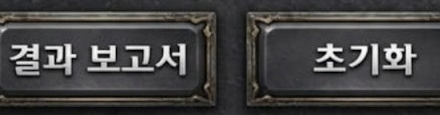
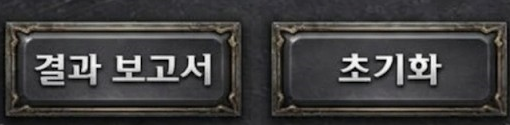
마법인형 합성 버튼이 좌우로 잘리지 않게 테두리를 살립니다.

diff --git a/guide/dolls.html b/guide/dolls.html
@@ -143,15 +143,15 @@
     }
     .adena img { height:3.8cqi; width:auto; flex:0 0 auto; image-rendering:pixelated; }
     .adena canvas { height:3.1cqi; width:auto; flex:0 0 auto; image-rendering:pixelated; }
-    .btn-pair { position:absolute; left:5.2%; top:42.6%; width:39%; z-index:3; }
+    .btn-pair { position:absolute; left:6.2%; top:42.8%; width:36.8%; z-index:3; }
     .btn-pair img { display:block; width:100%; height:auto; pointer-events:none; }
     .btn-pair button {
       position:absolute; top:6%; height:82%; border:0; padding:0; cursor:pointer;
       background:transparent; color:transparent;
     }
     .btn-pair button:hover { background:rgba(255,255,255,.08); }
-    #reportBtn { left:3%; width:47%; }
-    #resetBtn { right:3%; width:43%; }
+    #reportBtn { left:5%; width:44%; }
+    #resetBtn { right:4%; width:40%; }
     .report-card { width:min(520px,100%); }
     .adena-line { display:flex; align-items:center; gap:8px; margin:4px 0 2px; }
     .adena-line img { height:22px; width:auto; image-rendering:pixelated; }
@@ -219,7 +219,7 @@
           <div id="tries">x0</div>
           <div class="adena" id="adena"><img src="dolls/adena-mark.png" alt=""><canvas id="adenaNum"></canvas></div>
           <div class="btn-pair">
-            <img src="dolls/craft-btns.png" alt="">
+            <img src="dolls/craft-btns.png?v=2" alt="">
             <button type="button" id="reportBtn" aria-label="결과 보고서"></button>
             <button type="button" id="resetBtn" aria-label="초기화"></button>
           </div>
